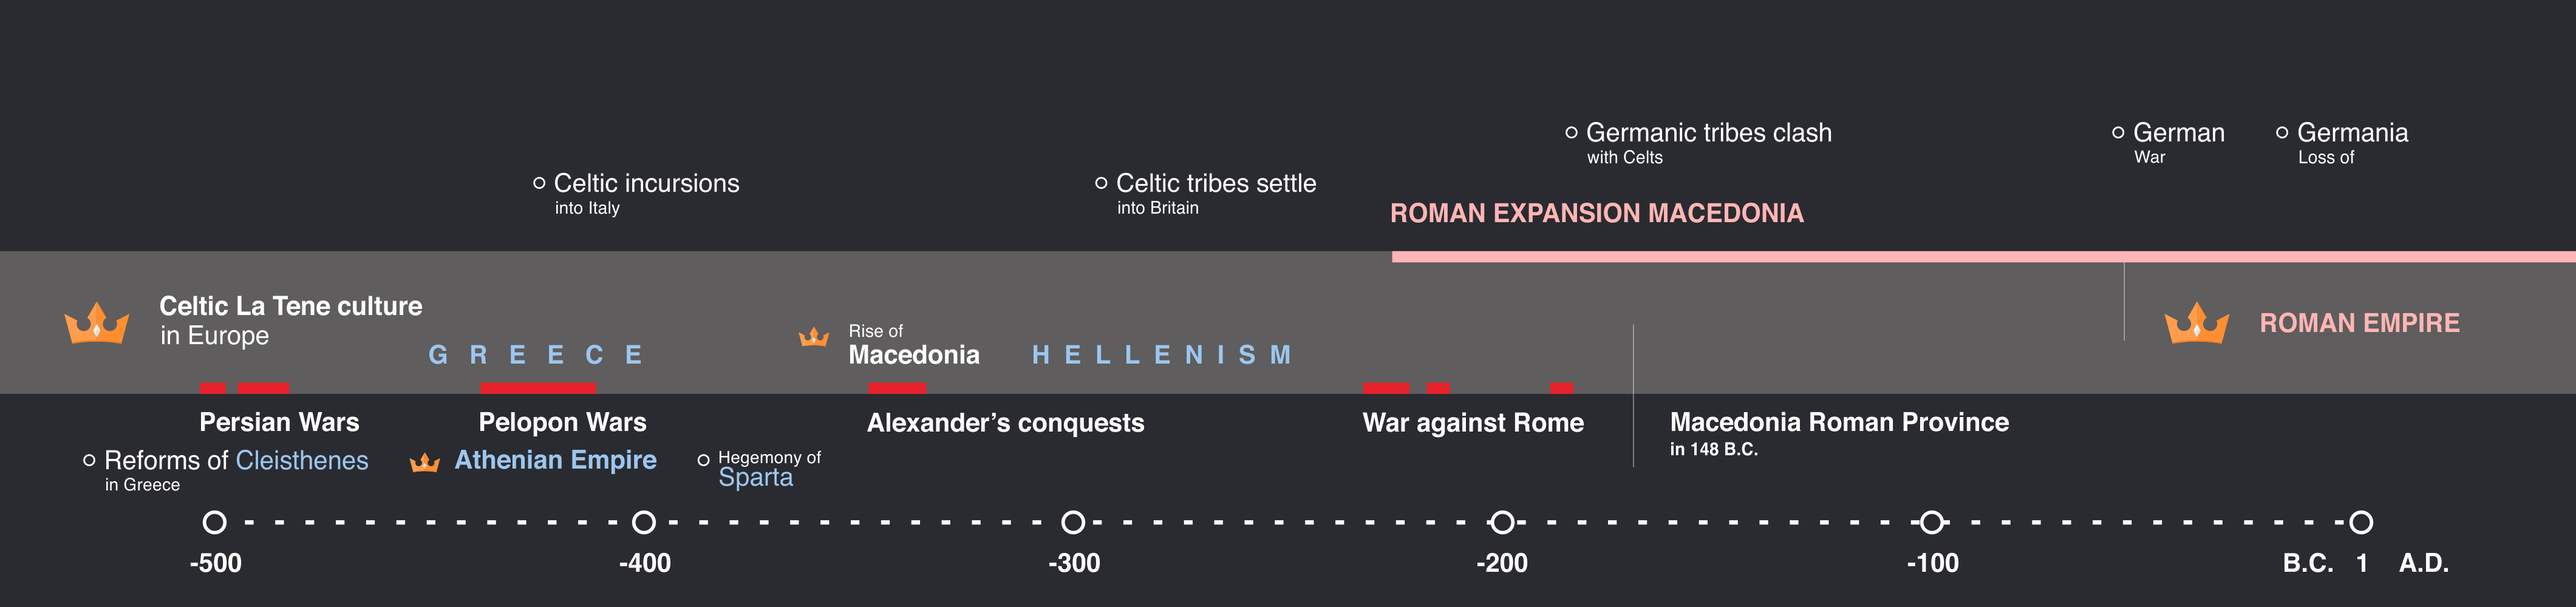
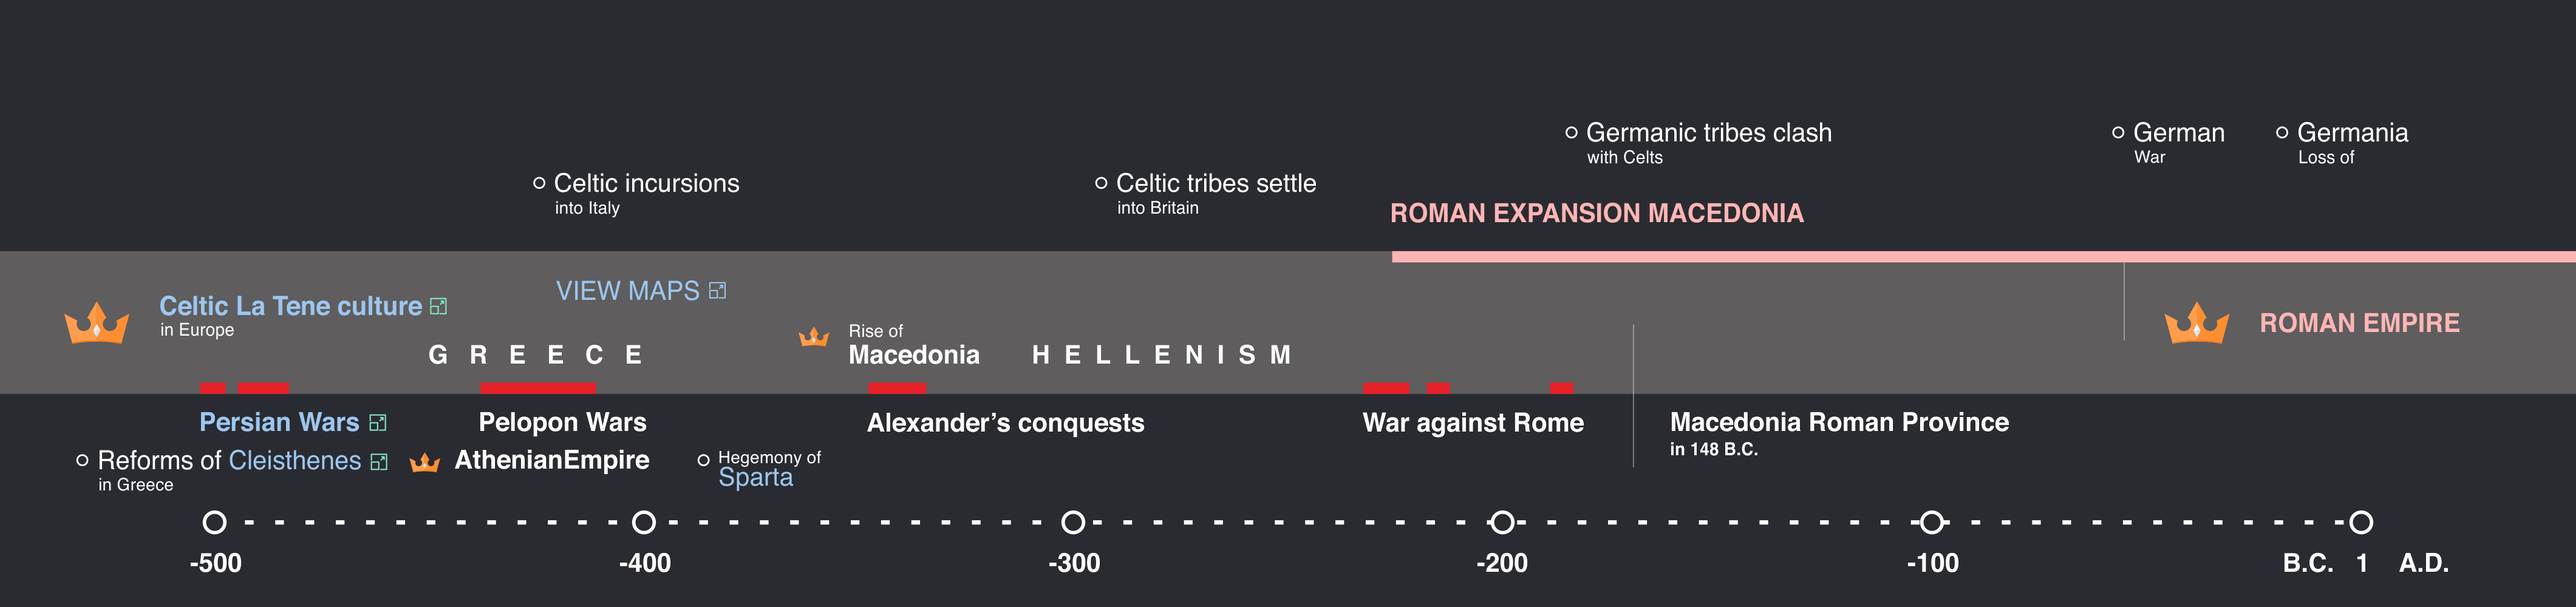
fixed timeline

diff --git a/pro/index-1.html b/pro/index-1.html
@@ -47,7 +47,7 @@
 						<span class="product__alcohol extra highlight">Macedonia</span>
 						<span class="product__price highlight">Pro</span>
 						<span style="padding-top:10px;padding-left:25px;" class="action__text extra highlight"><i class="fa fa-info-circle"></i>&nbsp;&nbsp;Pro Version</span>
-						<img class="extra highlight" height="75%" id="bottom" src="images/-500-1_europe.png" />
+						<img class="extra highlight" height="75%" id="bottom" src="images/-500-1_europe.png" usemap="#map1"/>
 					</div>
 					<label class="action action--compare-add"><input class="check-hidden" type="checkbox" /><i class="fa fa-plus"></i><i class="fa fa-check"></i><span class="action__text action__text--invisible">Add to compare</span></label>
 				</div>
@@ -61,19 +61,12 @@
 						<span class="product__alcohol extra highlight">Roman</span>
 						<span class="product__price highlight">Free</span>
 						<span style="padding-top:10px;padding-left:-25px;" class="action__text extra highlight"><i class="fa fa-info-circle"></i>&nbsp;&nbsp;Pro Version</span>
-						<img class="extra highlight" height="75%" id="bottom" src="images/-500-1_middleeast.png" usemap="#map1"/>
-						<map name="map1">
-							<area shape="rect" coords="39, 57, 127, 81" href="#modalmiddleeast-11" title="new" alt="">
-							<area shape="rect" coords="306, 55, 394, 79" href="#modalmiddleeast-12" title="new" alt="">
-							<area shape="rect" coords="400, 64, 488, 88" href="#modalmiddleeast-13" title="new" alt="">
-							<area shape="rect" coords="358, 100, 446, 124" href="#modalmiddleeast-14" title="new" alt="">
-							<area shape="rect" coords="449, 102, 537, 126" href="#modalmiddleeast-15" title="new" alt="">
-							<area shape="rect" coords="541, 97, 591, 123" href="#modalmiddleeast-16" title="new" alt="">
-							<area shape="rect" coords="318, 132, 404, 158" href="#modalmiddleeast-17" title="new" alt="">
-							<area shape="rect" coords="395, 150, 481, 176" href="#modalmiddleeast-18" title="new" alt="">
-							<area shape="rect" coords="308, 160, 394, 186" href="#modalmiddleeast-19" title="new" alt="">
-							<area shape="rect" coords="728, 55, 815, 78" href="#modalmiddleeast-110" title="new" alt="">
-							<area shape="rect" coords="823, 47, 884, 77" href="#modalmiddleeast-111" title="new" alt="">
+						<img class="extra highlight" height="75%" id="bottom" src="images/-500-1_middleeast.png" usemap="#map2"/>
+						<map name="map2">
+							<area shape="rect" coords="37, 92, 163, 123" href="#modaleurope-11" title="new" alt="">
+							<area shape="rect" coords="60, 136, 142, 154" href="#modaleurope-12" title="new" alt="">
+							<area shape="rect" coords="64, 153, 146, 171" href="#modaleurope-13" title="new" alt="">
+							<area shape="rect" coords="179, 91, 261, 109" href="#modaleurope-14" title="new" alt="">
 						</map>
 
 					</div>
@@ -115,6 +108,59 @@
   <div class="overlay"></div>
 </div>
 
+<div id="modaleurope-11">
+  <div class="modal-content">
+    <div class="copy">
+	  <p><strong>The Celts</strong></p>
+	  <p>The Celts were a people that dominated western and central Europe during the first millenium BC. Their origins can be traced back to the Bronze Age Tumulus culture, which peaked around 1200 BC. They reached the highpoint of their power from the 5th-1st century BC, when they developed the so-called La Tene culture.</p>
+	  <p>The Celts had many dealings with other cultures that bordered the lands occupied by these peoples, and even though there is no written record of the Celts stemming from their own documents, we can piece together a fair picture of them from historical accounts from other cultures.</p>
+	  <p>The first historical recorded encounter of the Celts comes from northern Italy around 400 BC, when a previously unkown group of barbarians came down from the Alps and displaced the Etruscans from the fertile Po valley. These people were called Galli by the Romans and Galatai or Keltoi by the Greeks, terms meaning barbarian.</p>
+	  <p>The most learned class among the Celts were the Druids, whose name means 'Knowing the Oak Tree' They seem to have frequented oak forests and acted as priests, judges, and teachers. The Druids' principal doctrine was that the soul was immortal and passed at death from one person to another. Many scholars believe that the Hindu Brahmin in the East and the Celtic Druid in the West were survivals of ancient Indo-European priesthood.</p>
+	  <p>During the 1st century BC the Celts were caught between the expansion of the Roman Empire and the invasion of Germanic tribes and their world began to decline.</p>
+	  <p><a style="background-color:#2A2B30;font-size: 0.7em;" href="#">Back to Timeline</a></p>
+	</div>
+  </div>
+  <div class="overlay"></div>
+</div>
+<div id="modaleurope-12">
+  <div class="modal-content">
+    <div class="copy">
+	  <p><strong>Persian Wars</strong></p>
+	  <p>In 499 B.C. the Greek cities of Ionia rebelled against Persian rule. The Persian king, Darius, crushed the revolt and sacked Miletus. Darius invaded Greece to punish Athens for the support of the failed revolt in Ionia. A first Persian invasion failed when the Persian fleet was destroyed in a storm off Mount Athos. A second expedition was decisively beaten by the Athenians and their allies on land at the  Battle of Marathon in 490 BC.</p>
+	  <p>Xerxes, Darius' son and successor, launched a third expedition on a massive scale on land and sea. To avoid the risk of losing the fleet in a storm Xerxes ordered a canal to be dug through the Athos peninsula, a notoriously stormy area. As the army advanced along the Thracian coast Persian diplomats attempted to persuade the Greeks to submit. Many cities and the Greek oracle at Delphi decided to accept Persian terms, but some twenty cities, under the leadership of Sparta, refused to yield.</p>
+	  <p>On August, 480 B.C., 300 Spartans and 5 600 other warriors died at Thermoplylae in a vain attempt to stop the Persian advance. Then, as Xerxes' army marched south, the Athenians were compelled to evacuate the city, which was burned by the Persians.</p>
+	  <p>Yet the Persians had difficulty in supplying their army and Xerxes decided to attack the Greek fleet, which had taken refuge in the Strait of  Salamis near Athens. In the narrow Strait, the superior Persian fleet became disorganised and the Greeks, by skillful maneuvering, were able to win a decisive victory. Xerxes ordered an immediate retreat to prevent his army from being trapped.</p>
+	  <p>A token army was left in Greece but this force was destroyed the following year at the Battle of  Plataea. After this defeat the Persians abandoned their expansionist aims and the independence of Greek civilization was secured.</p>
+	  <p><a style="background-color:#2A2B30;font-size: 0.7em;" href="#">Back to Timeline</a></p>
+	</div>
+  </div>
+  <div class="overlay"></div>
+</div>
+<div id="modaleurope-13">
+  <div class="modal-content">
+    <div class="copy">
+	  <p><strong>Persiaan Empire</strong></p>
+	  <p><img src="cleist.jpg"/></p>
+	  <p>Cleisthenes is regarded as the founder of Athenian democracy.</p>
+	  <p>Cleisthenes served as chief archon in Athens in 525 BC. After the fall of the tyrant Hippias he established a democratic institution and he prepared Athens to face the Persian armies that threatened it.</p>
+	  <p>He also introduced the practice of 'ostracism', or temporary banishment. His most important innovation was the basing of individual political responsibility on citizenship of a city rather than on membership of a clan.</p>
+	  <p>In order to forestall strife between the traditional clans, which had led to the tyranny in the first place, he changed the political organisation from the four traditional tribes, which were based on family relations, into ten tribes according to their area of residence.</p>
+	  <p><a style="background-color:#2A2B30;font-size: 0.7em;" href="#">Back to Timeline</a></p>
+	</div>
+  </div>
+  <div class="overlay"></div>
+</div>
+<div id="modaleurope-14">
+  <div class="modal-content">
+    <div class="copy">
+	  <p><strong>Persian Wars</strong></p>
+	  <p><img src="images/greece_pers.gif"/></p>
+	  <p>499- 479 BC</p>
+	  <p><a style="background-color:#2A2B30;font-size: 0.7em;" href="#">Back to Timeline</a></p>
+	</div>
+  </div>
+  <div class="overlay"></div>
+</div>
 <div id="modalmiddleeast-11">
   <div class="modal-content">
     <div class="copy">

diff --git a/css/modal.css b/css/modal.css
@@ -1715,3 +1715,268 @@
   border-radius: 5px;
   background-color: #5C5EDC;
 }
+
+
+
+#modaleurope-11 {
+  left: 50%;
+  font-size: 0.85em;
+  margin: -250px 0 0 -32%;
+  opacity: 0;
+  position: absolute;
+  top: -50%;
+  visibility: hidden;
+  width: 65%;
+  box-shadow: 0 3px 7px rgba(0,0,0,.25);
+  box-sizing: border-box;
+  transition: all .4s ease-in-out;
+  -moz-transition: all .4s ease-in-out;
+  -webkit-transition: all .4s ease-in-out
+}
+
+#modaleurope-11:target {
+  opacity: 1;
+  top: 50%;
+  visibility: visible
+}
+
+#modaleurope-11 h2 {
+  margin: 0;
+  color: #fff
+}
+
+#modaleurope-11 .btn { float: right }
+
+#modaleurope-11 .copy, #modal .header, #modal .footer {
+  padding: 10px 10px 20px 10px;
+  color: #fff
+}
+
+.modaleurope-11-content {
+  background: #2A2B30;
+  position: relative;
+  z-index: 1004;
+  border-radius: 0px;
+  color: #fff;
+  text-align: center;
+}
+
+#modaleurope-11 .copy { background: #2A2B30 }
+
+#modaleurope-11 .overlay {
+  background-color: #000;
+  background: rgba(0,0,0,.8);
+  height: 100%;
+  left: 0;
+  position: fixed;
+  top: 0;
+  width: 100%;
+  z-index: 1003;
+}
+
+.copy a {
+  color: #fff;
+  text-decoration: none;
+  display: inline-block;
+  padding: 5px 10px;
+  border-radius: 5px;
+  background-color: #5C5EDC;
+}
+
+
+#modaleurope-12 {
+  left: 50%;
+  font-size: 0.85em;
+  margin: -250px 0 0 -32%;
+  opacity: 0;
+  position: absolute;
+  top: -50%;
+  visibility: hidden;
+  width: 65%;
+  box-shadow: 0 3px 7px rgba(0,0,0,.25);
+  box-sizing: border-box;
+  transition: all .4s ease-in-out;
+  -moz-transition: all .4s ease-in-out;
+  -webkit-transition: all .4s ease-in-out
+}
+
+#modaleurope-12:target {
+  opacity: 1;
+  top: 50%;
+  visibility: visible
+}
+
+#modaleurope-12 h2 {
+  margin: 0;
+  color: #fff
+}
+
+#modaleurope-12 .btn { float: right }
+
+#modaleurope-12 .copy, #modal .header, #modal .footer {
+  padding: 10px 10px 20px 10px;
+  color: #fff
+}
+
+.modaleurope-12-content {
+  background: #2A2B30;
+  position: relative;
+  z-index: 1004;
+  border-radius: 0px;
+  color: #fff;
+  text-align: center;
+}
+
+#modaleurope-12 .copy { background: #2A2B30 }
+
+#modaleurope-12 .overlay {
+  background-color: #000;
+  background: rgba(0,0,0,.8);
+  height: 100%;
+  left: 0;
+  position: fixed;
+  top: 0;
+  width: 100%;
+  z-index: 1003;
+}
+
+.copy a {
+  color: #fff;
+  text-decoration: none;
+  display: inline-block;
+  padding: 5px 10px;
+  border-radius: 5px;
+  background-color: #5C5EDC;
+}
+
+
+#modaleurope-13 {
+  left: 50%;
+  font-size: 0.85em;
+  margin: -250px 0 0 -32%;
+  opacity: 0;
+  position: absolute;
+  top: -50%;
+  visibility: hidden;
+  width: 65%;
+  box-shadow: 0 3px 7px rgba(0,0,0,.25);
+  box-sizing: border-box;
+  transition: all .4s ease-in-out;
+  -moz-transition: all .4s ease-in-out;
+  -webkit-transition: all .4s ease-in-out
+}
+
+#modaleurope-13:target {
+  opacity: 1;
+  top: 50%;
+  visibility: visible
+}
+
+#modaleurope-13 h2 {
+  margin: 0;
+  color: #fff
+}
+
+#modaleurope-13 .btn { float: right }
+
+#modaleurope-13 .copy, #modal .header, #modal .footer {
+  padding: 10px 10px 20px 10px;
+  color: #fff
+}
+
+.modaleurope-13-content {
+  background: #2A2B30;
+  position: relative;
+  z-index: 1004;
+  border-radius: 0px;
+  color: #fff;
+  text-align: center;
+}
+
+#modaleurope-13 .copy { background: #2A2B30 }
+
+#modaleurope-13 .overlay {
+  background-color: #000;
+  background: rgba(0,0,0,.8);
+  height: 100%;
+  left: 0;
+  position: fixed;
+  top: 0;
+  width: 100%;
+  z-index: 1003;
+}
+
+.copy a {
+  color: #fff;
+  text-decoration: none;
+  display: inline-block;
+  padding: 5px 10px;
+  border-radius: 5px;
+  background-color: #5C5EDC;
+}
+
+
+#modaleurope-14 {
+  left: 50%;
+  font-size: 0.85em;
+  margin: -250px 0 0 -32%;
+  opacity: 0;
+  position: absolute;
+  top: -50%;
+  visibility: hidden;
+  width: 65%;
+  box-shadow: 0 3px 7px rgba(0,0,0,.25);
+  box-sizing: border-box;
+  transition: all .4s ease-in-out;
+  -moz-transition: all .4s ease-in-out;
+  -webkit-transition: all .4s ease-in-out
+}
+
+#modaleurope-14:target {
+  opacity: 1;
+  top: 50%;
+  visibility: visible
+}
+
+#modaleurope-14 h2 {
+  margin: 0;
+  color: #fff
+}
+
+#modaleurope-14 .btn { float: right }
+
+#modaleurope-14 .copy, #modal .header, #modal .footer {
+  padding: 10px 10px 20px 10px;
+  color: #fff
+}
+
+.modaleurope-14-content {
+  background: #2A2B30;
+  position: relative;
+  z-index: 1004;
+  border-radius: 0px;
+  color: #fff;
+  text-align: center;
+}
+
+#modaleurope-14 .copy { background: #2A2B30 }
+
+#modaleurope-14 .overlay {
+  background-color: #000;
+  background: rgba(0,0,0,.8);
+  height: 100%;
+  left: 0;
+  position: fixed;
+  top: 0;
+  width: 100%;
+  z-index: 1003;
+}
+
+.copy a {
+  color: #fff;
+  text-decoration: none;
+  display: inline-block;
+  padding: 5px 10px;
+  border-radius: 5px;
+  background-color: #5C5EDC;
+}
